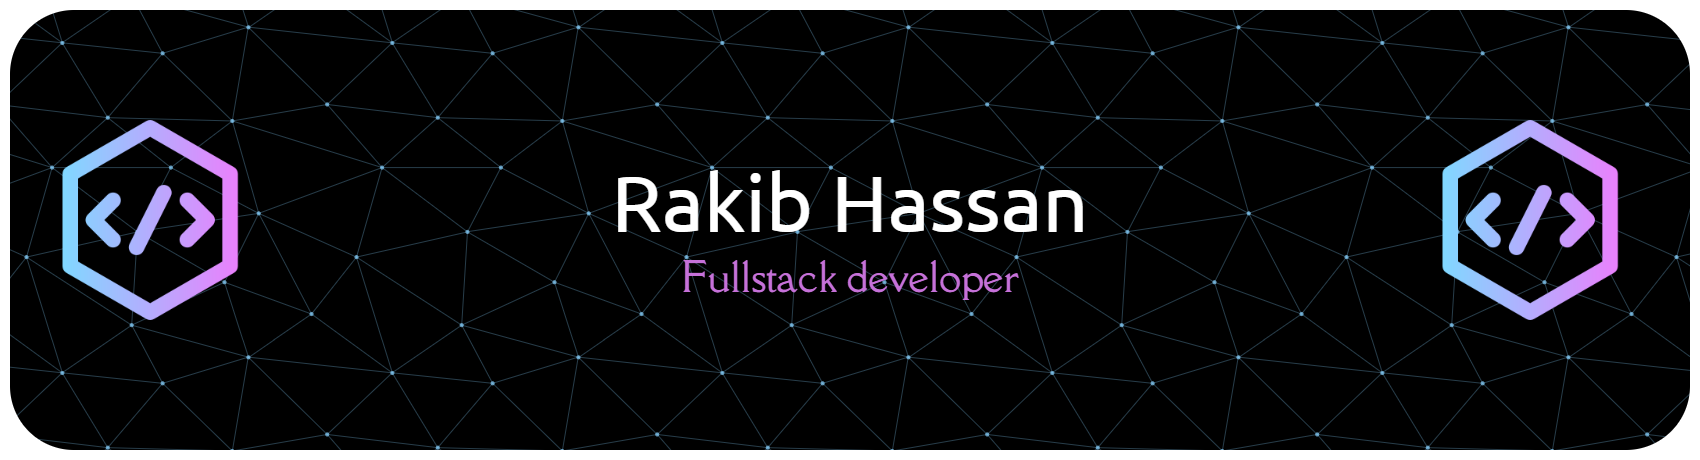
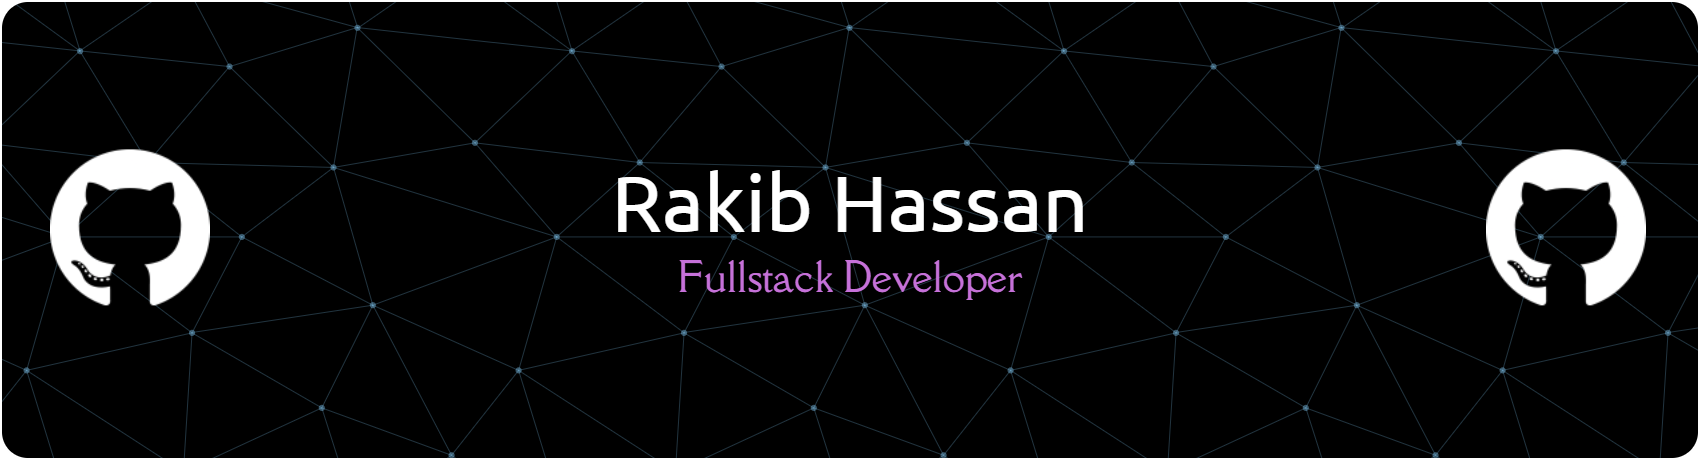
update

diff --git a/README.md b/README.md
@@ -1,6 +1,7 @@
 
 <a href="https://rakibhassan.vercel.app/">
-  <img src="https://raw.githubusercontent.com/rakibcoding/rakibcoding/main/img/github-header.png">
+  <!-- <img src="https://raw.githubusercontent.com/rakibcoding/rakibcoding/main/img/github-header.png"> -->
+  <img src="img/github-header-banner (15).png">
 </a>
 <div align="right">
 
